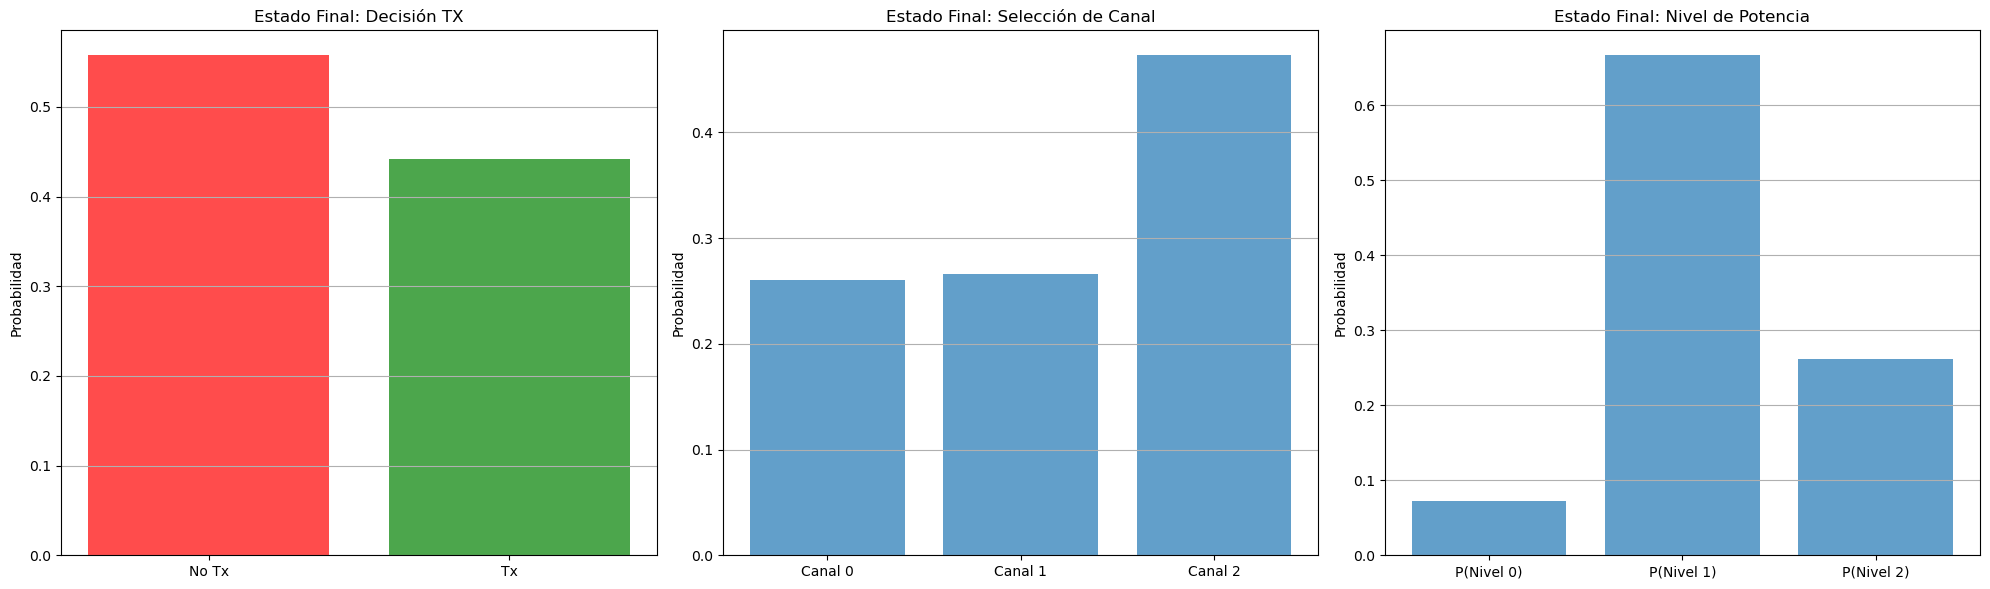
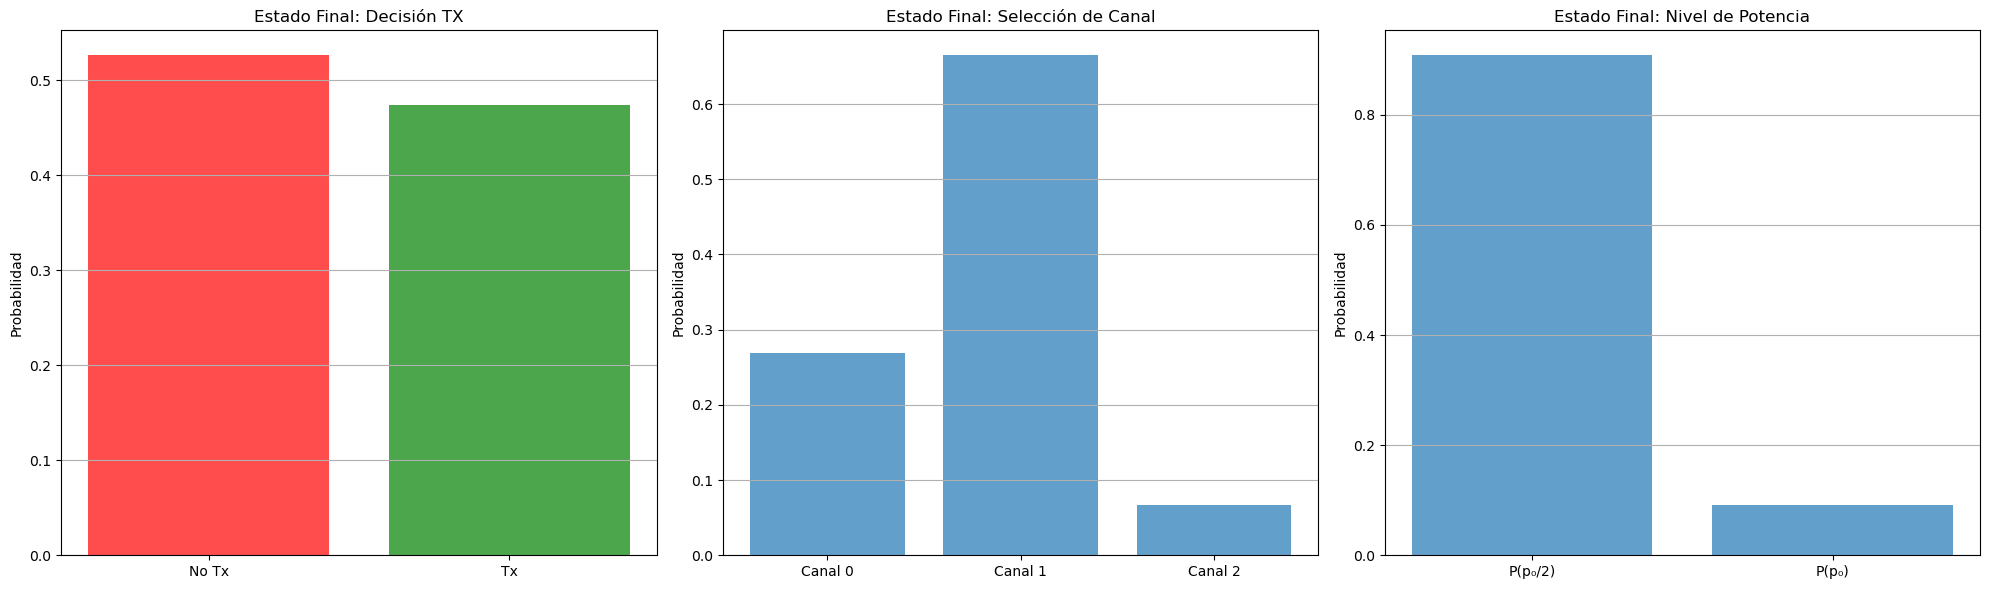
dos niveles de potencia

diff --git a/RUN/train.py b/RUN/train.py
@@ -65,11 +65,7 @@ def run(building_id=990, b5g=False, num_links=5, num_channels=3, num_layers=5, K
     hidden_dim = 1
 
     # Definí los niveles de potencia discretos
-    power_levels = torch.tensor([0, p0/2, p0])
-    num_power_levels = len(power_levels)
-
-    # Definí los niveles de potencia discretos
-    power_levels = torch.tensor([0, p0/2, p0])  # Incluimos 0 = no transmitir
+    power_levels = torch.tensor([p0/2, p0]) 
     num_power_levels = len(power_levels)
 
     # Arquitectura: 3 decisiones independientes
